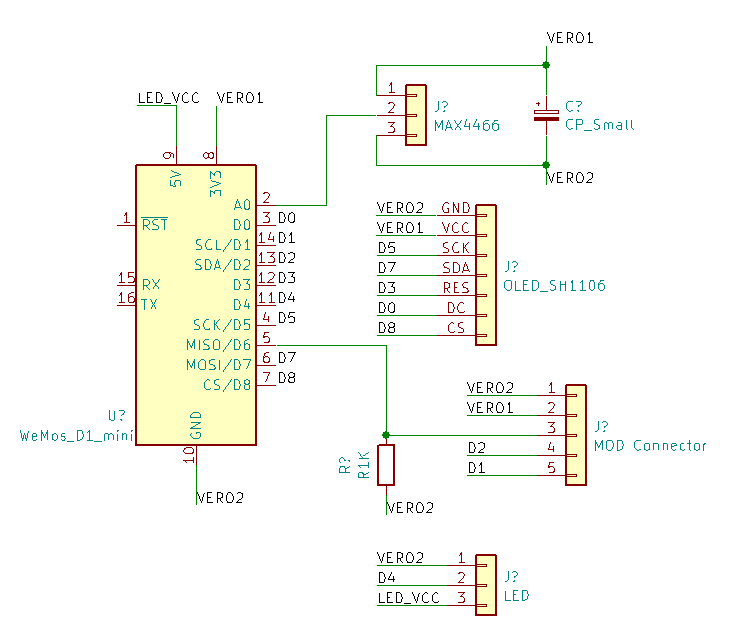
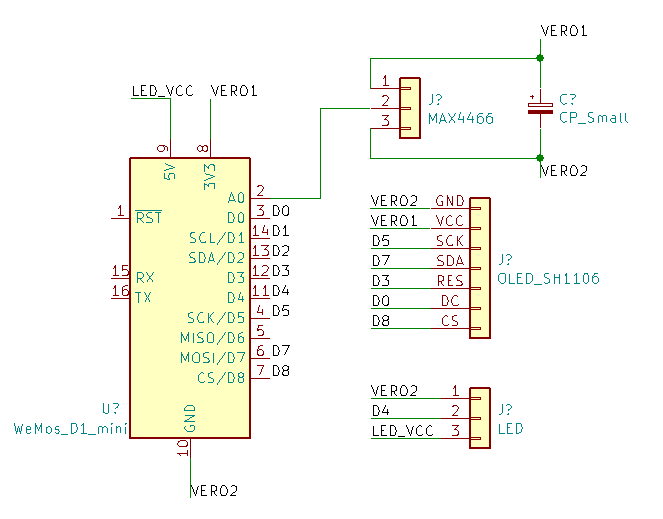
Update Readme

diff --git a/README.md b/README.md
@@ -2,7 +2,7 @@
 [![ko-fi](https://www.ko-fi.com/img/githubbutton_sm.svg)](https://ko-fi.com/A0A01MQZP)
 
 # syncBlink
-**syncBlink** is a WiFi connected, programmable and music reactive light system. It supports custom *MOD* cartridges which contain executable scripts. These scripts are able to influence the light patterns produced by **syncBlink**.
+**syncBlink** is a WiFi connected, programmable and music reactive light system. It supports custom *MOD*s which are executable scripts to influence the light patterns produced by **syncBlink**. The station comes with a custom web application to write and control these scripts.
 
 Furthermore **syncBlink** creates a naive mesh including a *websocket*. **syncBlink Nodes** are able to connect to this mesh and will create an additional access point and websocket for other nodes to connect to. This way nodes not in range of the **syncBlink Station** are also able to join the mesh as long as at least one node is in range. The nodes are able to receive *commands* created by the *Station*.
 
@@ -17,6 +17,8 @@ Furthermore **syncBlink** creates a naive mesh including a *websocket*. **syncBl
     a) [BOM](#bom)  
     b) [Firmware](#firmware)  
     c) [Build](#build)
+3. [The Application](#the-application)
+4. [Create MODs](#create-mods)
 
 ## 3D Model
 The models were designed in Fusion 360. The exported STLs are included in the Github repository (*stl* folder). Furthermore there are Fusion 360 archive files ready to download (*cad* folder).
@@ -30,11 +32,9 @@ The models were designed in Fusion 360. The exported STLs are included in the Gi
 - 1x 1K Resistor
 - 1x Capacitor 680uF
 - 1x MAX4466
-- 1x 1x5 DuPont Male Pin Header
 - [9x WS2812B LEDs (I used a strip and cut it)](https://www.amazon.de/dp/B01CDTED80)
 - 4x M2x12mm screws
 - 4x M3x4mm screws
-- [Stripboard](https://www.amazon.com/dp/B00C9NXP94)
 - Wire
 - Hotglue & Superglue
 
@@ -45,6 +45,10 @@ Before building **syncBlink** you should flash the firmware onto the Wemos D1 Mi
 To flash the firmware onto the Wemos connect it to your PC and press the *Upload* button in the status bar.
 
 ![syncBlink - Flash](https://raw.githubusercontent.com/syncBlink/station/master/img/flash.png)
+
+You also have to flash the file system to the Wemos.
+
+![syncBlink - Filesystem](https://raw.githubusercontent.com/syncBlink/station/master/img/fsupload.png)
 
 Afterwards start the *serial monitor* and you should see some outputs like in the screenshot below. If you are able to see the output, the device is working and you are ready to build the **syncBlink Station**.
 
@@ -78,21 +82,8 @@ Solder three wires to your microphone and attach it with hotglue to the *Bottom*
 
 ![syncBlink - Mic](https://raw.githubusercontent.com/syncBlink/station/master/img/mic.jpg)
 
-At this point I advise you to build your first [MOD](https://github.com/syncBlink/mods). A *MOD* will help to align the MOD connector correctly in the *bottom* shell.   
-
-**Playing jingle ...**
-
-Now that your first **MOD** is done, take the stripboard and create one 4x7 and one 2x5 sized piece. Picture below as a reference - pay attention to the copper line directions.
-
-![syncBlink - Stripboard](https://raw.githubusercontent.com/syncBlink/station/master/img/stripboard.jpg)
-
-Solder the DuPont male pin header to one row of the 2x5 stripboard piece and five wires to the second row. The wires should be directed to the opposite side of the pin header and should sit flush. Otherwise the connector will not sit correctly in the cartridge slot. 
-
-Now insert the *MOD* connector into the slot of the *Bottom* part of the shell and try to insert your *MOD*. If they fit, hotglue the connector to the shell. This way the connector and the *MOD*s will align perfectly.
-
-![syncBlink - MOD Connector](https://raw.githubusercontent.com/syncBlink/station/master/img/mod-connector.jpg)
-
-Take the 4x7 stripboard you prepared before and solder all necessary components and wires as shown in the image below. The ground wires are only indicated (read the red comment) to keep the image tidy. Also solder every other wire like indicated in the above schematics.
+Create a 2x7 sized piece out of the stripboard. Picture below as a reference - pay attention to the copper line directions.  
+Solder all necessary components and wires as shown in the image. The ground wires are only indicated (read the red comment) to keep the image tidy.
 
 ![syncBlink - Veroboard](https://raw.githubusercontent.com/syncBlink/station/master/img/syncBlink-Veroboard.png)
 
@@ -102,3 +93,46 @@ Mount the Wemos D1 Mini to the *Bottom* part of the shell.
 
 Power the Wemos and insert a *MOD*. You should see the *decibel* in the top right of the display. Set the gain of you microphone with a small screwdriver. It should float between -40 and -43dB in a silent room. If done, place the stripboard into the shell, place one of the *divider* parts on top of the *bottom* part, then place the *middle* part on top of it. Followed by an additional *divider* and the *top* part.
 Insert the *bolts* into the four holes and use the M2x12mm screws to close the shell. Your **syncBlink Station** is done!
+
+### The Application
+
+[TODO]
+
+### Create MODs
+
+**syncBlink** uses [mJS](https://github.com/cesanta/mjs/) to execute the MODs.
+On every loop the scripts will get some variables injected by the script engine.
+
+- **vol** *The calculated volume is a value between 0 and 100*
+- **freq** *The dominant frequency of the current loop*
+- **lVol** *The volume of the last loop*
+- **lFreq** *The dominant frequency of the last loop*
+- **minF** *The lowest frequency registered by syncBlink - 130hz -> Lowest note for viola, mandola*
+- **midF** *The middle frequency value - 1046hz -> Highest note reproducible by average female*
+- **maxF** *The highest frequency registered by syncBlink - 3140 -> Between highest note on a flute and on a 88-key piano* 
+- **mLedC** *The total number of LEDs in the longest mesh route*
+- **pLedC** *Number of LEDs prior of the current executing node*
+- **nLedC** *Number of LEDs of the current executing node*
+- **pNodeC** *Number of previous nodes in route*
+
+Every script has to implement the *init*, *update* and *getName* method:
+
+```
+function init() {}
+function update(delta) {}
+function getName(){ return "NAME"; }
+```
+
+The script API exposes some methods to work with:
+
+- **map(x, in_min, in_max, out_min, out_max)** *Maps a number in a certain range to the corresponding number in the output range*
+- **round(number)** *Rounds a number to the next whole integer*
+- **xrgb(r, g, b)** *Returns the hex representation of the given RGB color*
+- **xhsv(h, s, v)** *Returns the hex representation of the given HSV color*
+- **setDelay(count)** *If set to a value >0 the script engine will delay the frequency updates. For example with a value of '1', the script engine would delay the frequency updates by one other frequency update.*
+- **setLed(index, hexColor)** *Set the LED with the given index to the given hex color*
+- **getLed(index)** *Get the hex color of the given LED*
+- **setGroup(index, [led1, led2, ...])** *Set a group of an array of leds to the given index - For example setGroup(0, [0,1]): a setLed(0) would now set index 0 and 1 together*
+- **clearGroups()** *Clear all previous group definitions*
+
+Look into the *mod* folder for some examples. If you write your own mod, try to avoid objects and arrays as much as possible. They are perfomance killers!
